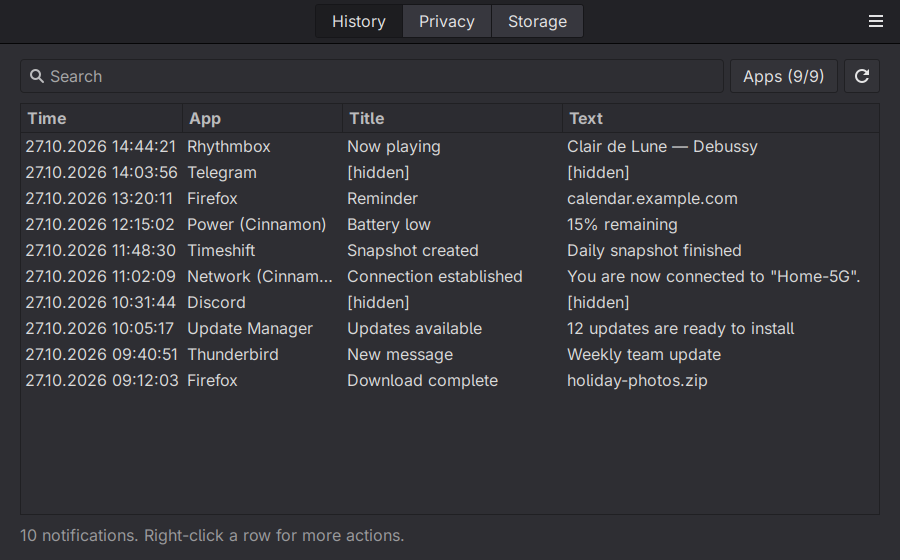
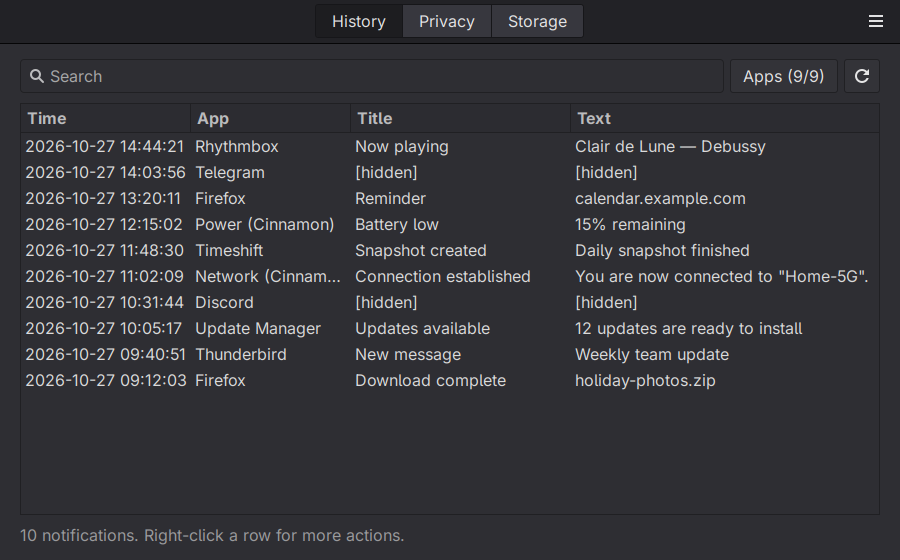
Notification Log: ISO dates in History, Privacy and Storage screenshots

Changed region(s): [[0.0311, 0.1821, 0.5911, 0.6982], [0.6222, 0.1821, 0.9644, 0.6982], [0.3733, 0.1821, 0.4978, 0.3643]]

diff --git a/notification-log@ogzhntutucu/files/notification-log@ogzhntutucu/settings.py b/notification-log@ogzhntutucu/files/notification-log@ogzhntutucu/settings.py
@@ -156,7 +156,7 @@ class HistoryPage(SettingsPage):
             apps[source] = apps.get(source, 0) + 1
             try:
                 when = datetime.fromisoformat(r['time'])
-                time = when.strftime('%d.%m.%Y %H:%M:%S')
+                time = when.strftime('%Y-%m-%d %H:%M:%S')
             except (KeyError, ValueError):
                 time = r.get('time', '')
             body = r.get('body') or ''

diff --git a/notification-log@ogzhntutucu/README.md b/notification-log@ogzhntutucu/README.md
@@ -28,6 +28,12 @@ notification, as one JSON line per notification in
 - **Privacy**: the list of private apps and sites.
 - **Storage**: retention period, open the log folder, or delete all logs.
 
+![History](screenshot.png)
+
+![Privacy](privacy.png)
+
+![Storage](storage.png)
+
 The log is plain text in your home folder (`~/.local/state` is where the XDG spec puts
 history and logs), readable only by you, like your shell or browser history. Use the
 private list for apps whose notifications contain messages.
